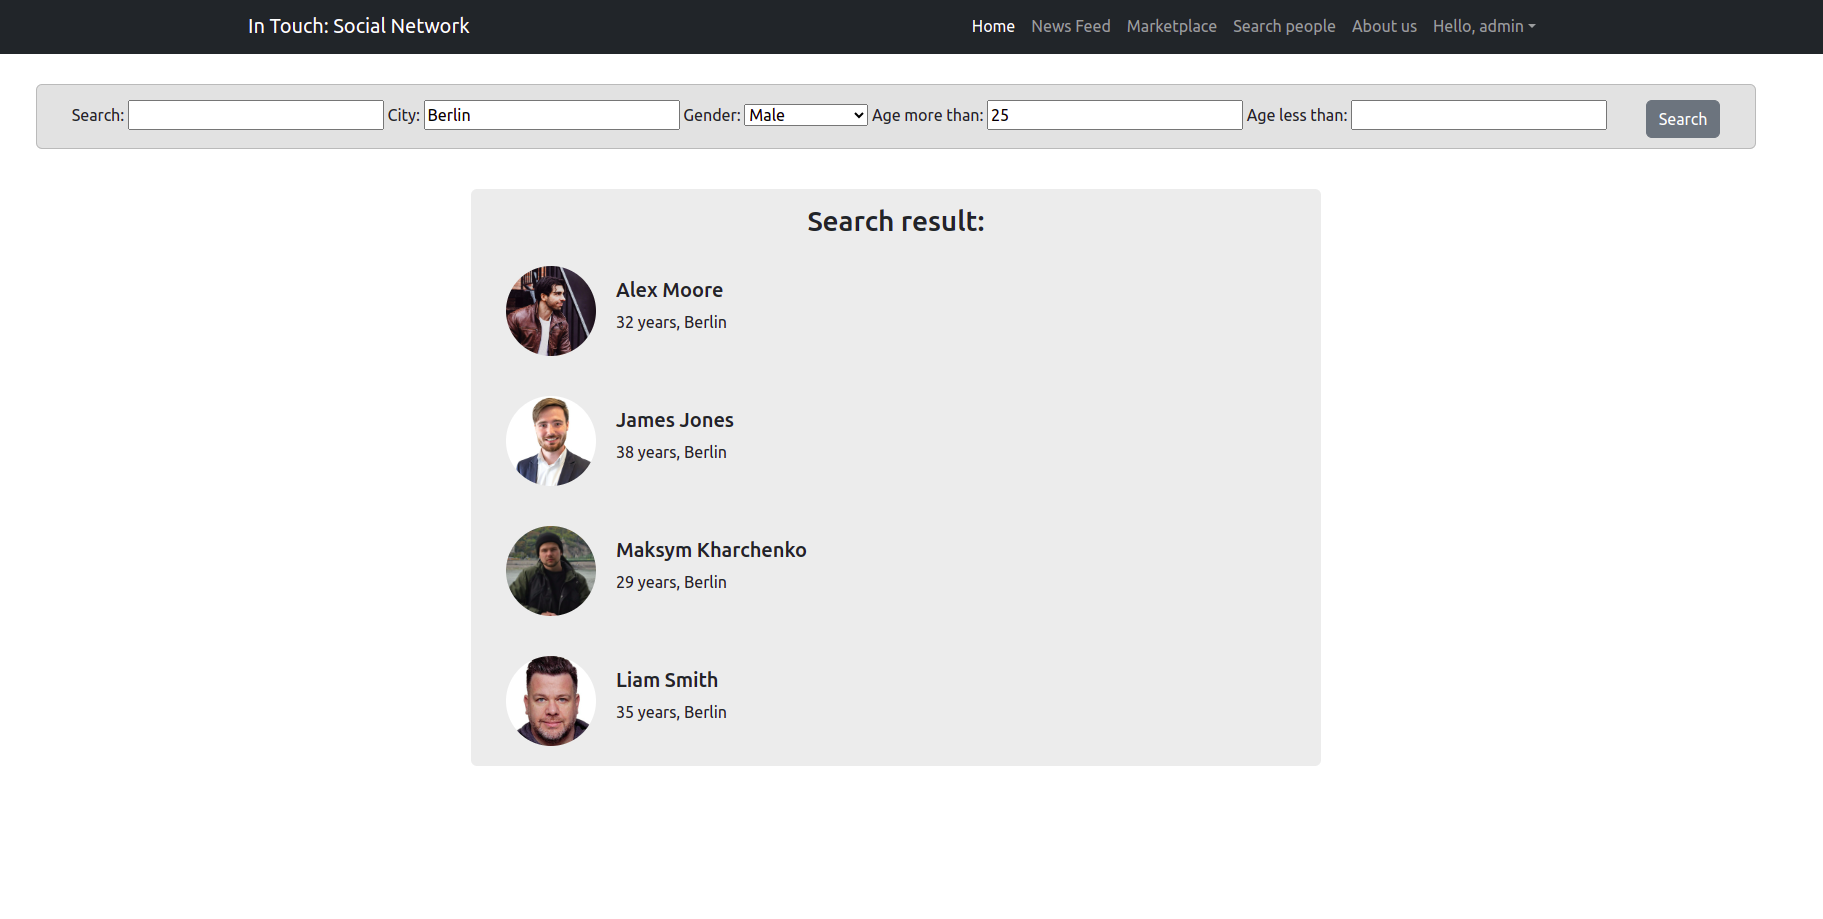
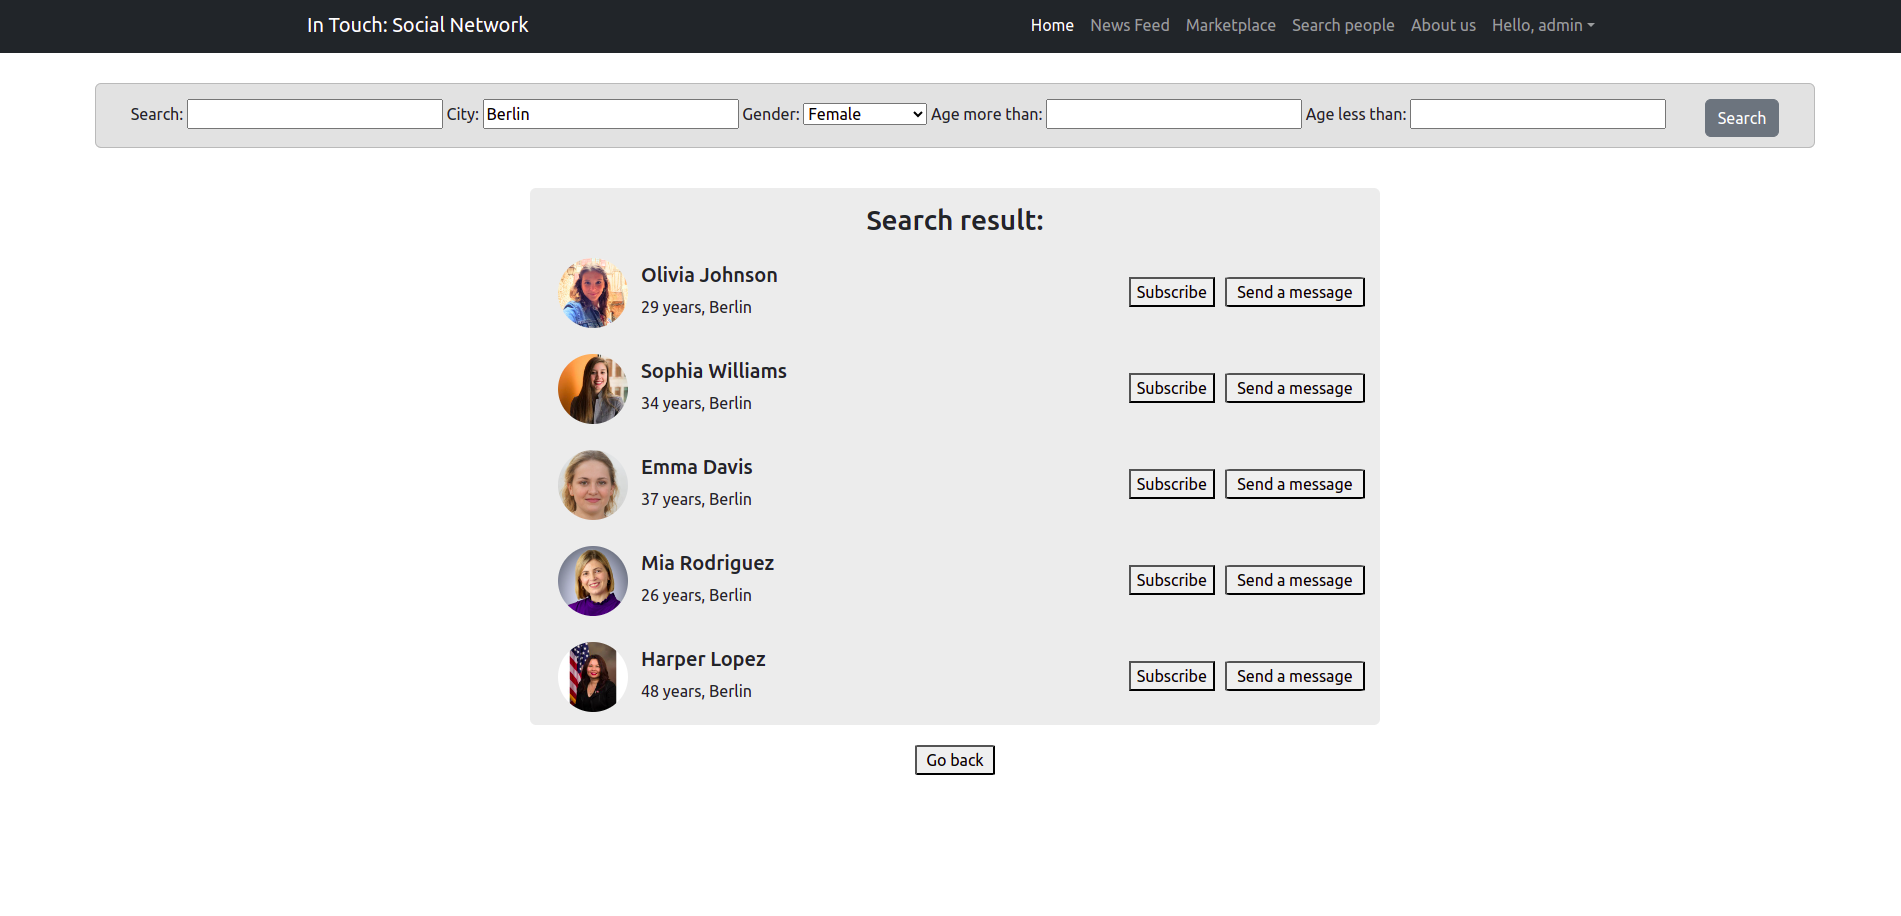
readme update

diff --git a/README.md b/README.md
@@ -10,6 +10,8 @@
 Also, each user can create an advertisement for the sale (or give away for free) some of their things that they no longer need.  
   
 ### Features and Updates:  
+- Added "Subscribe" and "Send a message" buttons on the Search page
+- Implemented Messaging system + notification of new message
 - Implemented Subscription system
 - Finished User profile page
 - Search system on Search page implemented
